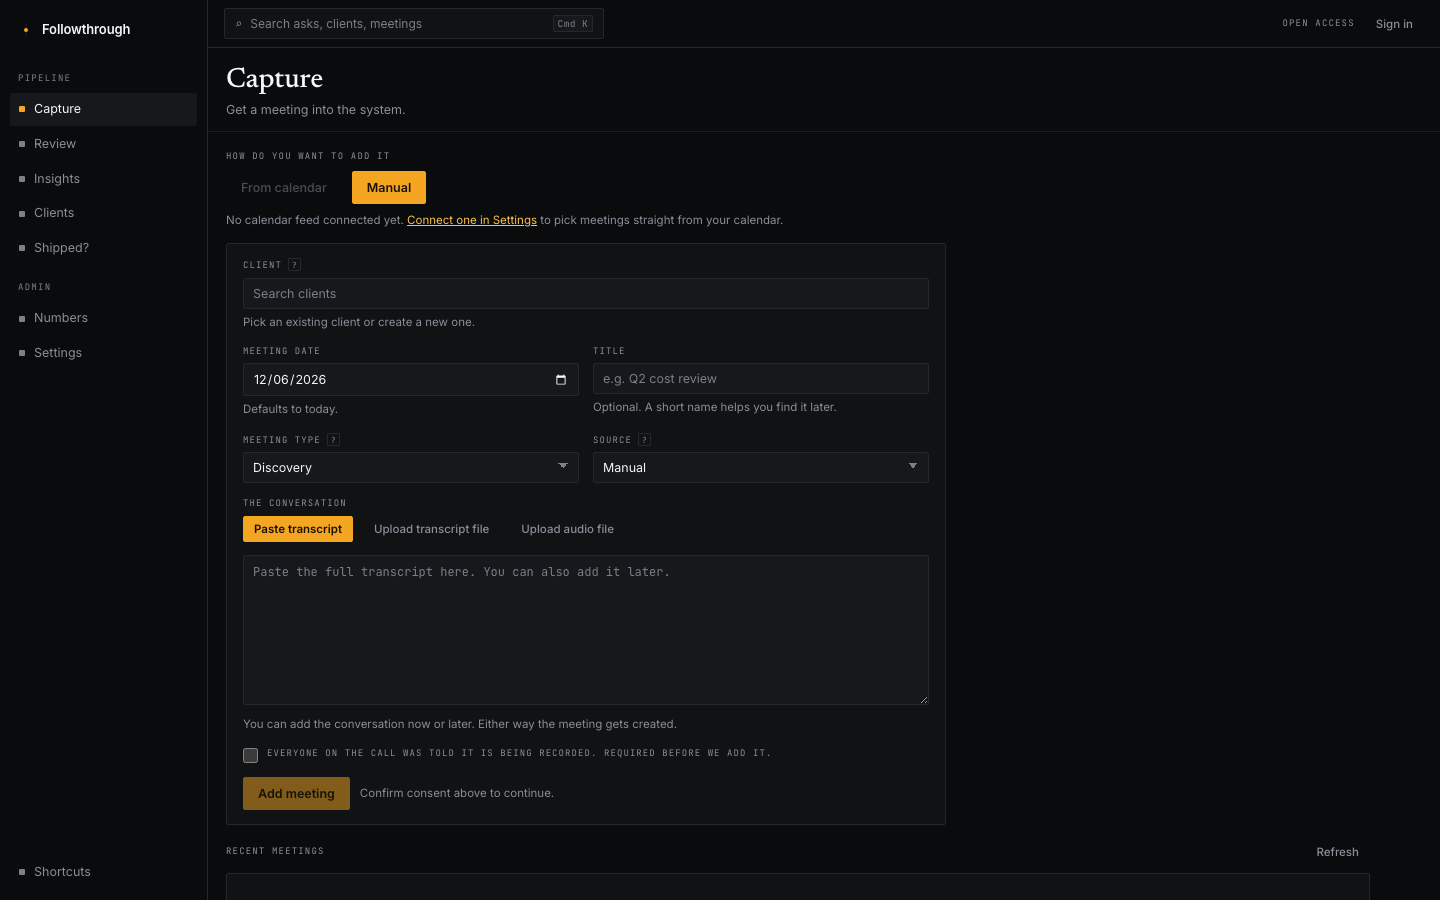
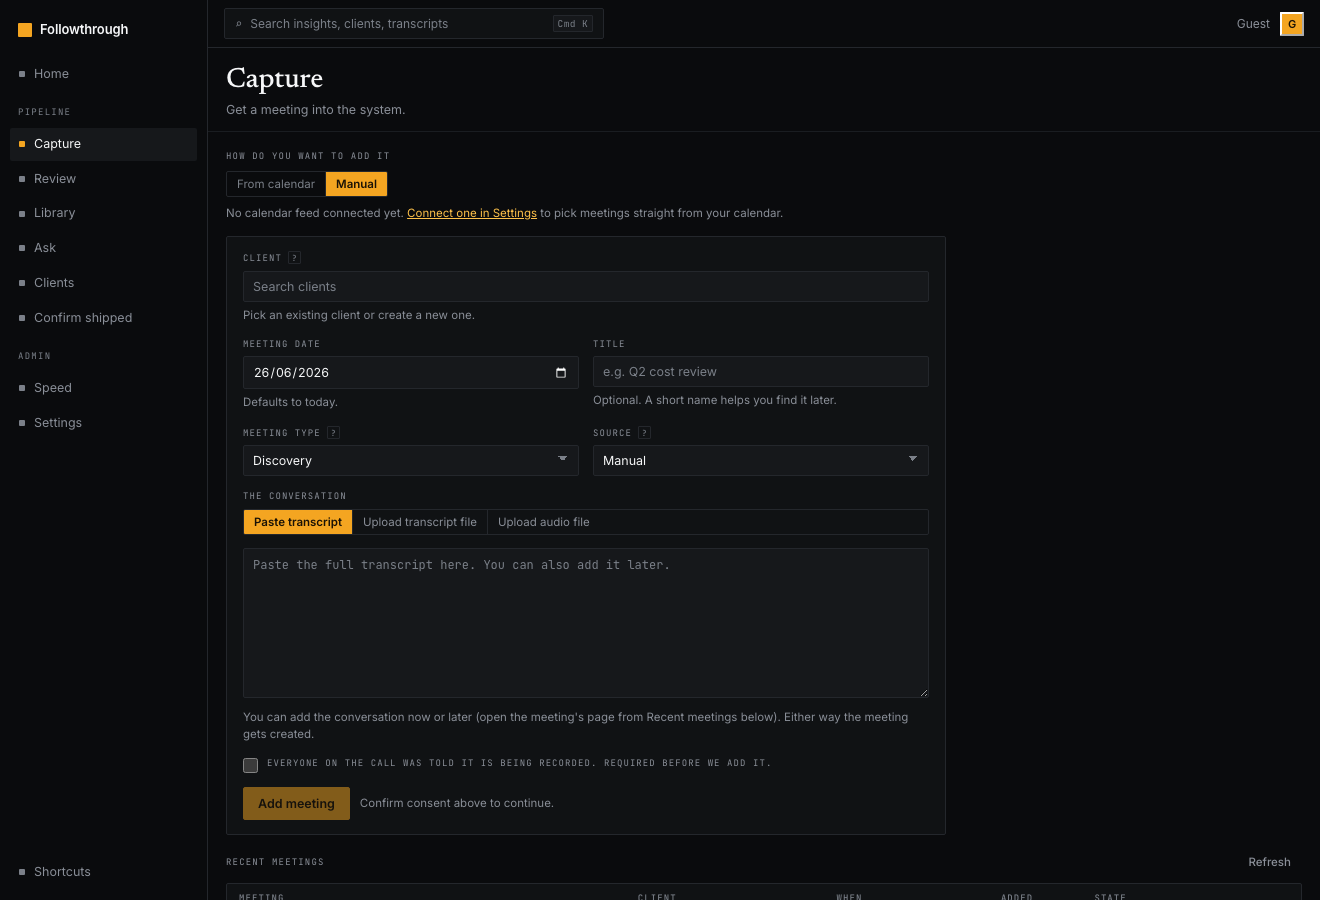
docs: refresh screenshots to current Spine build; add Home + Ask
Recapture review/capture/settings/login on the post-port UI and add the two
new flagship pages (Home dashboard, Ask cited-Q&A) to the README grid.
Shots use synthetic demo data (fictional Acme / Globex / Initech).

diff --git a/README.md b/README.md
@@ -42,15 +42,19 @@ Each arrow is a tracked, timestamped state transition. The funnel, the turnaroun
 
 The "Transcript Spine" UI: cinematic dark chrome, a single signal-amber accent, editorial serif headers, and a single plain-English vocabulary.
 
-| Review (triage workspace) | Capture (get a meeting in) |
+| Home (what needs you now) | Review (triage workspace) |
 |:---:|:---:|
-| ![Review screen](docs/screenshots/review.png) | ![Capture screen](docs/screenshots/capture.png) |
+| ![Home dashboard](docs/screenshots/home.png) | ![Review screen](docs/screenshots/review.png) |
+
+| Ask (cited Q&A over your meetings) | Capture (get a meeting in) |
+|:---:|:---:|
+| ![Ask screen](docs/screenshots/ask.png) | ![Capture screen](docs/screenshots/capture.png) |
 
 | Settings (open by default; login is optional) | Sign in (only when login is required) |
 |:---:|:---:|
 | ![Settings access](docs/screenshots/settings.png) | ![Login screen](docs/screenshots/login.png) |
 
-> The bundled sample data is empty out of the box, so these show the chrome and the new access model. The spine / testimony / waveform fully populate once meetings are ingested.
+> Screenshots use synthetic demo data (fictional clients Acme / Globex / Initech). The bundled sample data is empty out of the box.
 
 ---
 
